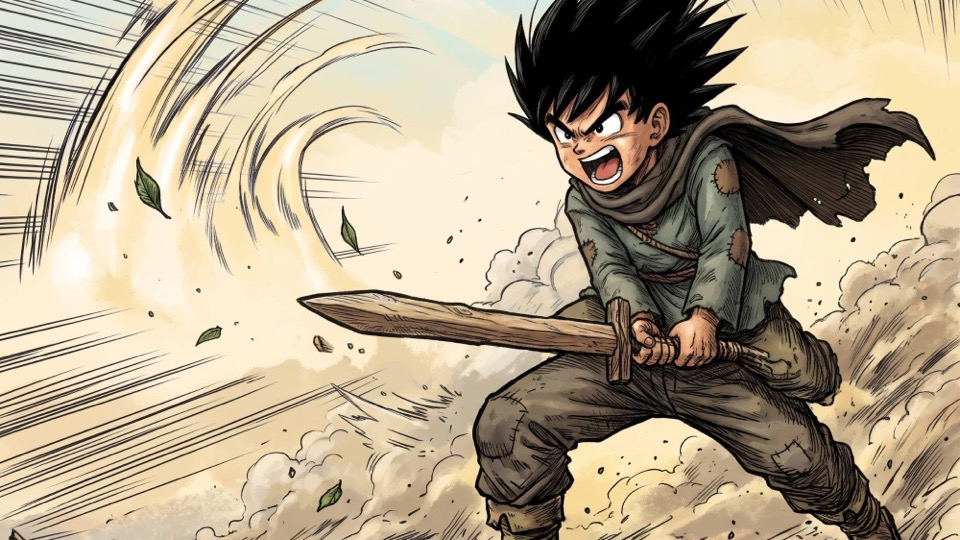
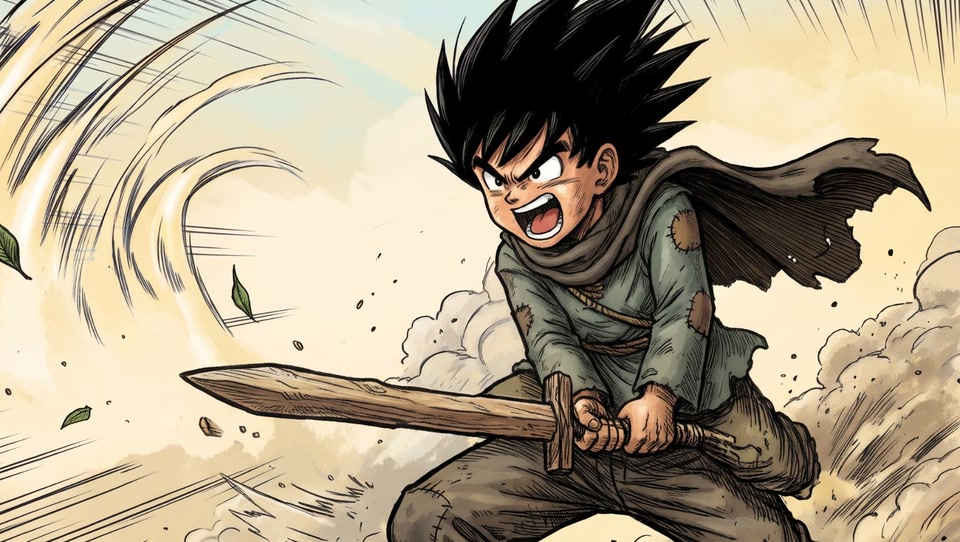
旅人勇者 cut-in 改從原圖重裁，只顯示頭到手（快取 v28）

diff --git a/sw.js b/sw.js
@@ -1,6 +1,6 @@
 // Offline support: the game files are stored on the device on first visit,
 // Google Fonts are cached as they load, so the game opens with no network afterwards.
-const VERSION = "hero-vs-blocks-v27";   // bump on every release so phones pick up the new game
+const VERSION = "hero-vs-blocks-v28";   // bump on every release so phones pick up the new game
 const CORE = ["./", "./index.html", "./manifest.webmanifest",
   "./icons/icon-192.png", "./icons/icon-512.png", "./icons/maskable-512.png", "./icons/apple-touch-icon.png",
   "./art/hero1.jpg", "./art/hero2.jpg", "./art/hero3.jpg", "./art/hero4.jpg", "./art/hero5.jpg"];
